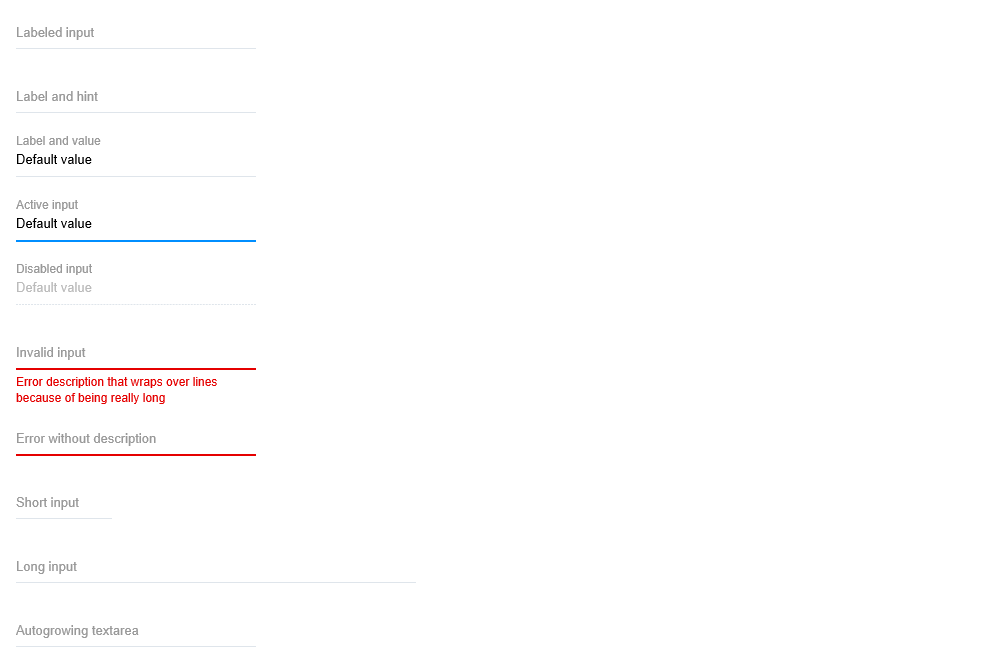
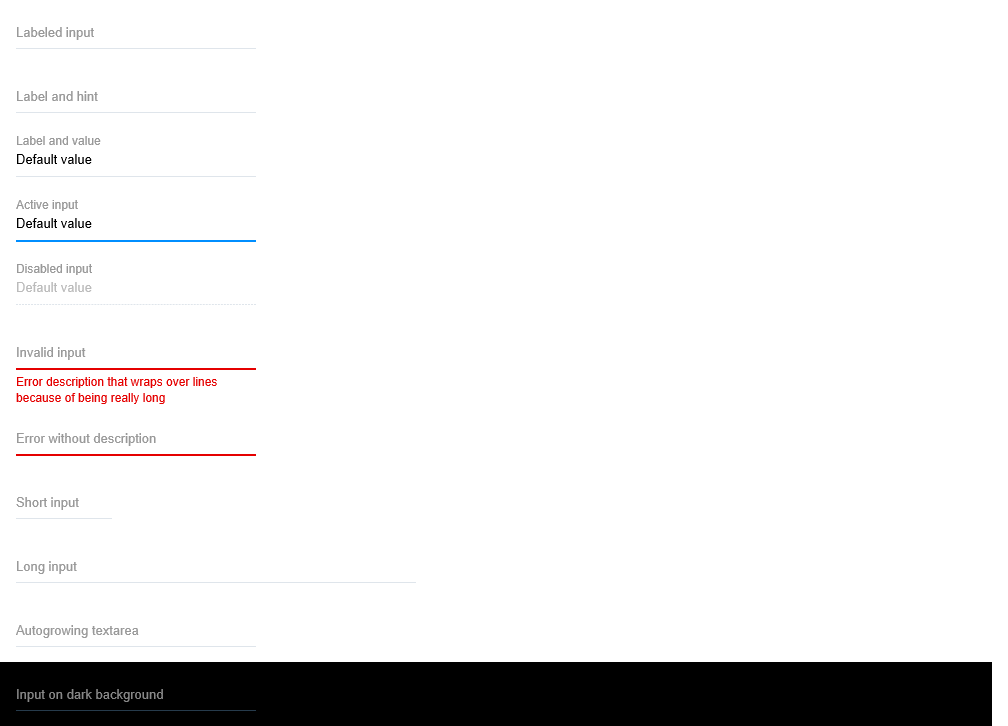
RING-UI-CR-1712 Use PureComponent in 3.0 components whenever possible. Add dark theme for Input
Former-commit-id: 721636ef299df9ab838a8333cedbc14782e40306

diff --git a/components/input/input.css b/components/input/input.css
@@ -1,5 +1,7 @@
 @value unit, font-lower, font-smaller-lower, font-size-smaller, line-color, dark-line-color, white-color, gray-color, dark-gray-color, darker-gray-color, main-color, error-color, text-color, ease, fast-ease, blue-caret from  "../global/global.css";
 
+@value text-shadow: 0 0 0;
+
 .container {
   composes: font-lower;
   padding-top: calc(unit * 2);
@@ -32,24 +34,21 @@
 
   @nest .dark & {
     @supports not (caret-color: white) {
-      text-shadow: 0px 0px 0px white-color;
+      text-shadow: text-shadow white-color;
     }
   }
 
   &::placeholder {
     text-shadow: none;
-
-    @nest .light & {
-      color: gray-color;
-    }
-
-    @nest .dark & {
-      color: text-color;
-    }
+    color: transparent;
   }
 
   &[disabled] {
     color: gray-color;
+
+    @supports not (caret-color: white) {
+      text-shadow: text-shadow gray-color;
+    }
   }
 
   /*
@@ -101,7 +100,16 @@ textarea.input {
 .noLabel .input::placeholder,
 .input:focus::placeholder {
   transition: text-shadow ease;
-  text-shadow: 0 0 0 currentColor;
+}
+
+.light.noLabel .input::placeholder,
+.light .input:focus::placeholder {
+  text-shadow: text-shadow gray-color;
+}
+
+.dark.noLabel .input::placeholder,
+.dark .input:focus::placeholder {
+  text-shadow: text-shadow text-color;
 }
 
 .input:focus ~ .label {

diff --git a/components/tabs/tabs.test.js b/components/tabs/tabs.test.js
@@ -1,6 +1,7 @@
 import 'dom4';
 import {renderIntoDocument, isCompositeComponentWithType} from 'react-addons-test-utils';
 import React from 'react';
+import {findDOMNode} from 'react-dom';
 
 import {Tabs, Tab} from './tabs';
 
@@ -11,17 +12,18 @@ describe('Tabs', () => {
       <Tab title="2"/>
     </Tabs>
   );
+  const renderNode = props => findDOMNode(renderComponent(props));
 
   it('should create component', () => {
     isCompositeComponentWithType(renderComponent(), Tabs).should.be.true;
   });
 
   it('should wrap children with div', () => {
-    renderComponent().node.should.match('div');
+    renderNode().should.match('div');
   });
 
   it('should use passed className', () => {
-    renderComponent({className: 'test-class'}).node.should.match('.test-class');
+    renderNode({className: 'test-class'}).should.match('.test-class');
   });
 
   // TODO Add more tests

diff --git a/components/input/input.examples.html b/components/input/input.examples.html
@@ -75,13 +75,13 @@
           label="Autogrowing textarea"
           multiline={true}
         />
-        <!--<div className="dark">-->
-          <!--<Input-->
-            <!--label="Input on dark background"-->
-            <!--placeholder="Hint on dark background"-->
-            <!--theme={Input.Theme.DARK}-->
-          <!--/>-->
-        <!--</div>-->
+        <div className="dark">
+          <Input
+            label="Input on dark background"
+            placeholder="Hint on dark background"
+            theme={Input.Theme.DARK}
+          />
+        </div>
       </form>
     )
 

diff --git a/components/select/select.test.js b/components/select/select.test.js
@@ -627,7 +627,7 @@ describe('Select', () => {
       let targetInput = null;
 
       beforeEach(function () {
-        targetInput = findDOMNode(document.createElement('input'));
+        targetInput = findDOMNode(renderIntoDocument(<input />));
 
         this.select = renderIntoDocument(React.createElement(Select, {
           data: testData,

diff --git a/components/select/select.js b/components/select/select.js
@@ -307,6 +307,7 @@ export default class Select extends RingComponentWithShortcuts {
 
       if (tryFocusAnchor) {
         const restoreFocusNode = this.props.targetElement || this.node.query('[data-test=ring-select__focus]');
+        console.log(restoreFocusNode);
         restoreFocusNode.focus();
       }
     }
